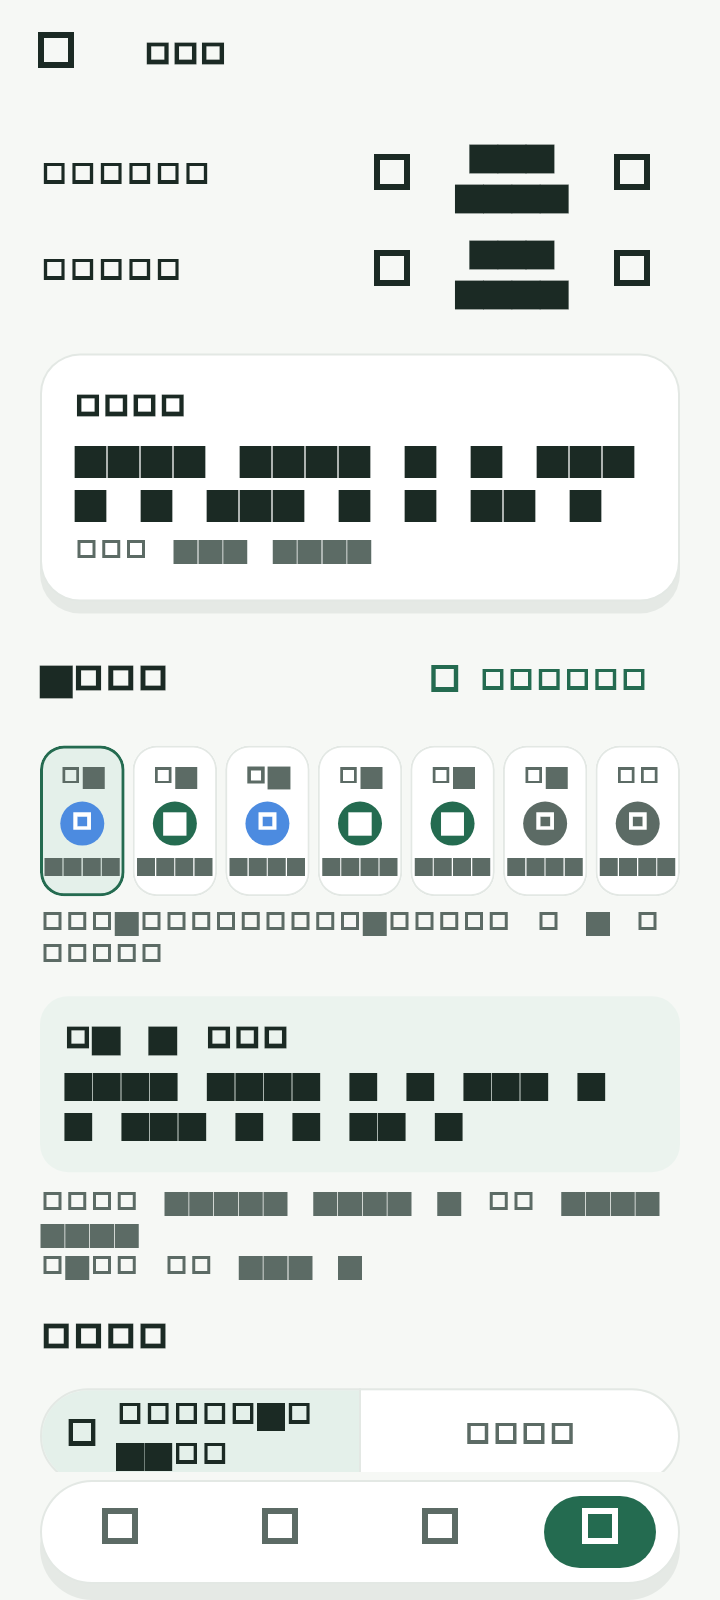
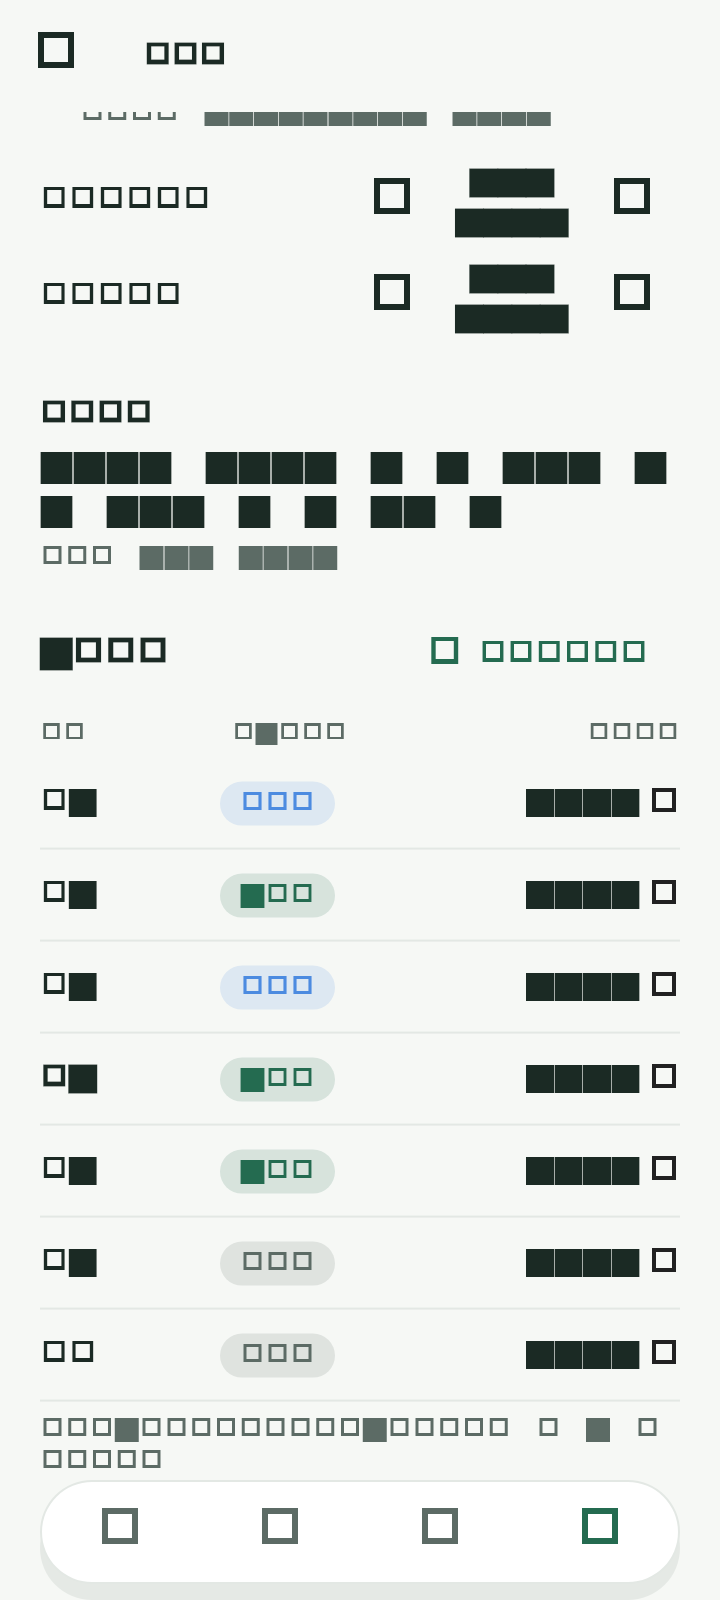
test(ui): regenerate V2 preview goldens
implementation_preview_test: drop the expand/collapse taps; rename the today
shots (en/zh-01-today + -01b-today-bottom), add en-15-tools. 3 preview tests
pass; 44 golden PNGs regenerated under design-handoff/implementation-preview/.

Claude-Session: https://claude.ai/code/session_01CWB8cLUtUBP9ZBJ1jWMsCM

diff --git a/test/implementation_preview_test.dart b/test/implementation_preview_test.dart
@@ -253,13 +253,19 @@ void main() {
   testWidgets('english core screens', (tester) async {
     await _pump(tester, h);
 
-    await _shot(tester, 'en-01-today-collapsed.png');
+    await _shot(tester, 'en-01-today.png');
 
-    await tester.tap(find.text('Today workout'));
-    await tester.pump(const Duration(milliseconds: 300));
-    await tester.tap(find.text('Today logs'));
-    await tester.pump(const Duration(milliseconds: 300));
-    await _shot(tester, 'en-02-today-expanded.png');
+    await tester.tap(find.byIcon(Icons.calendar_today_outlined).first);
+    await tester.pump();
+    await tester.pump(const Duration(milliseconds: 400));
+    await _shot(tester, 'en-04-date-picker.png');
+    if (find.text('Cancel').evaluate().isNotEmpty) {
+      await tester.tap(find.text('Cancel'));
+      await tester.pump(const Duration(milliseconds: 300));
+    }
+
+    await _scrollPage(tester);
+    await _shot(tester, 'en-01b-today-bottom.png');
 
     h.container
         .read(selectedDayProvider.notifier)
@@ -269,14 +275,6 @@ void main() {
 
     h.container.read(selectedDayProvider.notifier).goToToday();
     await tester.pump(const Duration(milliseconds: 400));
-    await tester.tap(find.byIcon(Icons.calendar_today_outlined));
-    await tester.pump();
-    await tester.pump(const Duration(milliseconds: 400));
-    await _shot(tester, 'en-04-date-picker.png');
-    if (find.text('Cancel').evaluate().isNotEmpty) {
-      await tester.tap(find.text('Cancel'));
-      await tester.pump(const Duration(milliseconds: 300));
-    }
 
     await _go(tester, h, '/log-meal');
     await _shot(tester, 'en-05-log-meal-flow.png');
@@ -320,6 +318,10 @@ void main() {
     await _go(tester, h, '/records');
     await tester.pump(const Duration(milliseconds: 400));
     await _shot(tester, 'en-14-records.png');
+
+    await _go(tester, h, '/profile/tools');
+    await tester.pump(const Duration(milliseconds: 400));
+    await _shot(tester, 'en-15-tools.png');
   });
 
   testWidgets('four themes on today', (tester) async {
@@ -340,13 +342,9 @@ void main() {
   testWidgets('chinese core screens', (tester) async {
     await _pump(tester, h, locale: const Locale('zh'));
 
-    await _shot(tester, 'zh-01-today-collapsed.png');
-
-    await tester.tap(find.text('今日训练'));
-    await tester.pump(const Duration(milliseconds: 300));
-    await tester.tap(find.text('今日记录'));
-    await tester.pump(const Duration(milliseconds: 300));
-    await _shot(tester, 'zh-02-today-expanded.png');
+    await _shot(tester, 'zh-01-today.png');
+    await _scrollPage(tester);
+    await _shot(tester, 'zh-01b-today-bottom.png');
 
     h.container
         .read(selectedDayProvider.notifier)
